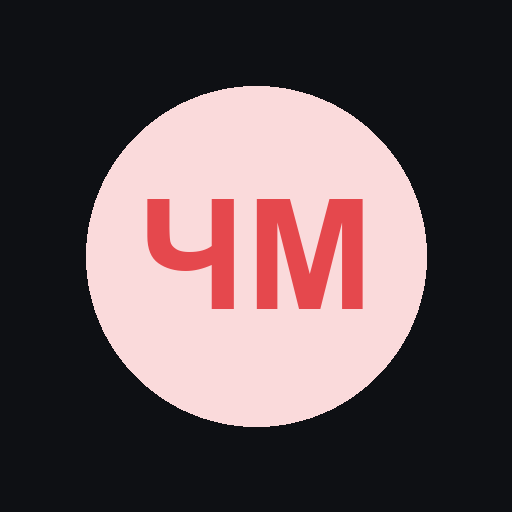
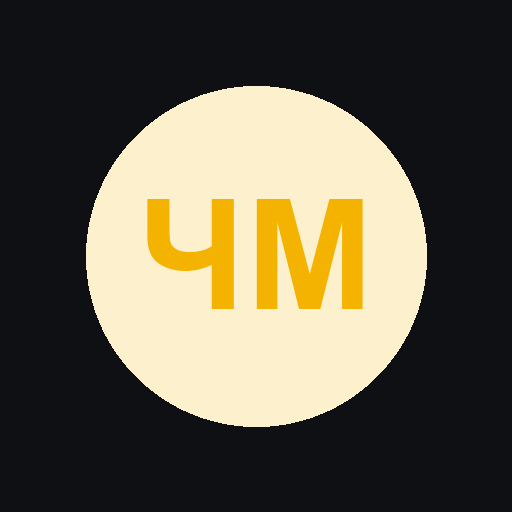
Честный мастер: цвета и значок с логотипа

Changed region(s): [[0.5, 0.375, 0.7188, 0.625], [0.2812, 0.375, 0.4688, 0.625]]

diff --git a/chestny-master/index.html b/chestny-master/index.html
@@ -25,7 +25,7 @@
 :root{
   color-scheme:dark;
   --bg:#0E1014; --bg2:#15181E; --card:#1A1E25; --line:#262B34; --text:#F2F4F7; --muted:#9AA3B2; --dim:#6B7380;
-  --accent:#E5484D; --accent-ink:#fff; --ok:#3DD68C; --warn:#F5B84B; --danger:#FF6B6B;
+  --accent:#F5B301; --accent-ink:#17191E; --ok:#3DD68C; --warn:#F5B84B; --danger:#FF6B6B;
   --r:16px; --safe-b:env(safe-area-inset-bottom,0px);
 }
 *{box-sizing:border-box;-webkit-tap-highlight-color:transparent}
@@ -230,6 +230,12 @@ body{background:
 .hero::after{background:linear-gradient(180deg,rgba(14,16,20,.28) 0%,rgba(14,16,20,0) 28%,rgba(14,16,20,.5) 58%,rgba(14,16,20,.97) 100%)}
 .kind{display:inline-block;padding:4px 10px;border-radius:999px;background:color-mix(in srgb,var(--accent) 30%,rgba(10,12,16,.55));color:#fff;letter-spacing:.06em;font-size:11px;backdrop-filter:blur(8px);-webkit-backdrop-filter:blur(8px)}
 h1,.meta{text-shadow:0 2px 14px rgba(0,0,0,.55)}
+/* логотип мойки вместо названия, если он есть */
+.title-row{display:flex;align-items:center;gap:12px;margin:6px 0 4px}
+.title-row h1{margin:0}
+.badge-logo{flex:0 0 auto;width:58px;height:58px;border-radius:50%;object-fit:cover;background:#fff;border:2px solid rgba(255,255,255,.9);box-shadow:0 6px 18px rgba(0,0,0,.5)}
+.logo-h{margin:8px 0 8px}
+.logo-h img{display:block;height:58px;max-width:86%;object-fit:contain;object-position:left center;filter:drop-shadow(0 2px 14px rgba(0,0,0,.75))}
 /* карточки: мягкий блик сверху и тень */
 .svc,.info-card,.summary,.install,.qa,.day,.time{background:linear-gradient(180deg,rgba(255,255,255,.045),rgba(255,255,255,0) 60%),var(--card);border-color:rgba(255,255,255,.075)}
 .svc,.info-card,.install{border-radius:18px;box-shadow:0 10px 28px -20px rgba(0,0,0,.9),inset 0 1px 0 rgba(255,255,255,.04)}
@@ -262,7 +268,7 @@ h1,.meta{text-shadow:0 2px 14px rgba(0,0,0,.55)}
 // поэтому страница записи и кабинет владельца видят одни и те же записи. Логика повторяет app.py:
 // если меняется сервер — меняем и здесь (проверяет scratchpad/demo_e2e.mjs).
 (() => {
-const SLUG = "chestny-master", CFG0 = {"slug": "chestny-master", "name": "Честный мастер", "kind": "Автосервис и шиномонтаж", "address": "Санкт-Петербург, Индустриальный пр., 66Б", "district": "Красногвардейский район", "mapsUrl": "https://yandex.ru/maps/org/chestny_master/178660768601/", "phones": [{"value": "+79117250011", "label": "Запись"}, {"value": "+79117250033", "label": "Доп. номер"}], "telegram": "https://t.me/sto_chestniy_master", "vk": "https://vk.ru/avtoservis_chest_m", "rating": 5.0, "reviews": 470, "hours": {"mon": ["09:00", "21:00"], "tue": ["09:00", "21:00"], "wed": ["09:00", "21:00"], "thu": ["09:00", "21:00"], "fri": ["09:00", "21:00"], "sat": ["09:00", "21:00"], "sun": ["09:00", "21:00"]}, "boxes": 2, "accent": "#E5484D", "photos": ["https://avatars.mds.yandex.net/get-altay/14456919/2a0000019263bd9940998c10f1b7725d3cc5/XXL", "https://avatars.mds.yandex.net/get-altay/17649278/2a0000019ab7b69eb0d34fefc5ea6af1ead5/XXL", "https://avatars.mds.yandex.net/get-altay/13212679/2a000001927a9d3349faff8be5f9badd8b37/XXL", "https://avatars.mds.yandex.net/get-altay/16874425/2a0000019e45ed567a3d7394d57dfe56681b/XXL", "https://avatars.mds.yandex.net/get-altay/14800460/2a00000195aeda79b68a7ade0139f4e38ff3/XXL", "https://avatars.mds.yandex.net/get-altay/13609869/2a000001926cc470041488172a2319a34969/XXL", "https://avatars.mds.yandex.net/get-altay/19532714/2a0000019e45ed56573eb4c58e510e4e3055/XXL", "https://avatars.mds.yandex.net/get-altay/13474366/2a000001926d3bba7ca4e32e0e5d89c77782/XXL"], "pricesSource": "Яндекс Карты, прайс организации", "categories": [{"name": "Ремонт и ТО", "services": [{"id": "0-0", "name": "Осмотр автомобиля перед покупкой", "price": 2500, "from": false, "desc": "Договоритесь с продавцом об осмотре машины на нашем сервисе. Кому нечего скрывать, скорее всего согласится…", "dur": 60, "hidden": false, "call": false}, {"id": "0-1", "name": "Мойка радиаторов", "price": 6500, "from": false, "desc": "Промойте радиаторы, помогите системе охлаждения автомобиля! Защитит машину от перегрева и улучшит работу…", "dur": 180, "hidden": false, "call": false}, {"id": "0-2", "name": "Аппаратная замена масла в АКПП и вариаторе", "price": 5000, "from": false, "desc": "Полная замена масла во всей системе АКПП аппаратом. Методом замещения старого масла новым. Требуется 10-12 л…", "dur": 90, "hidden": false, "call": false}, {"id": "0-3", "name": "Заправка автокондиционеров", "price": 3500, "from": false, "desc": "Заправка автокондиционеров на современном итальянском оборудовании – 3500 руб. Прошедшие обучение мастера…", "dur": 60, "hidden": false, "call": false}, {"id": "0-4", "name": "Автоэлектрик-диагност: сложные случаи", "price": 5000, "from": false, "desc": "Автоэлектрик-электронщик-диагност в автосервисе \"Честный мастер\"., Работает со сложными задачами, где базовый…", "dur": 60, "hidden": false, "call": false}, {"id": "0-5", "name": "Автоэлектрик: диагностика и ремонт", "price": 1000, "from": false, "desc": "Толковый автоэлектрик в автосервисе \"Честный мастер\". Не Никола Тесла, но отличный специалист с опытом работы…", "dur": 60, "hidden": false, "call": false}, {"id": "0-6", "name": "Установка защитной сетки на бампер", "price": 3500, "from": false, "desc": "Сетка устанавливается на бампер. Защищает радиатор от прилёта камней и повреждения ячеек. Актуально перед…", "dur": 30, "hidden": false, "call": false}, {"id": "0-7", "name": "Диагностика подвески, света и жидкостей", "price": 500, "from": false, "desc": "Поднимем машину на подъёмнике, заглянем под капот, послушаем двигатель, проверим жидкости, работу освещения…", "dur": 60, "hidden": false, "call": false}, {"id": "0-8", "name": "Замена ремня и цепи ГРМ", "price": 8000, "from": false, "desc": "Профессионально меняем цепь или ремень ГРМ на иномарках и отечественных авто., Также выполняем:, – замену…", "dur": "days", "hidden": false, "call": false}, {"id": "0-9", "name": "Ремонт АКПП и вариатора (CVT)", "price": 15000, "from": false, "desc": "Ремонтируем автоматические коробки передач (АКПП):, – классический 4,5,6 ступенчатый автомат, – вариатор…", "dur": "days", "hidden": false, "call": false}, {"id": "0-10", "name": "Замена масла в АКПП со снятием поддона", "price": 3500, "from": false, "desc": "Замена масла АКПП со снятием поддона, Старое масло сливается путём снятия поддона АКПП. Сам поддон тщательно…", "dur": 90, "hidden": false, "call": false}]}, {"name": "Шиномонтаж", "services": [{"id": "1-0", "name": "Развал-схождение", "price": 2500, "from": false, "desc": "Качественная регулировка углов схождения колёс или развал-схождения на новом 3D стенде. Выполняют опытные…", "dur": 60, "hidden": false, "call": false}, {"id": "1-1", "name": "Сезонная переобувка и балансировка", "price": 2500, "from": true, "desc": "Шиномонтаж от 2000 руб., Станки Sivik 2024 года выпуска: полуавтоматический балансировочный станок и…", "dur": 60, "hidden": false, "call": false}]}, {"name": "Кузовной ремонт", "services": [{"id": "2-0", "name": "Антикор обработка днища и арок", "price": 45000, "from": false, "desc": "Антикор обработка днища и арок автомобиля. Продлит жизнь кузову + создаст дополнительный эффект шумоизоляции…", "dur": "days", "hidden": false, "call": false}, {"id": "2-1", "name": "Кузовной ремонт и покраска", "price": 15000, "from": false, "desc": "Недорогой, но качественный кузовной ремонт, восстановление после ДТП:, – рихтовка, выправление вмятин…", "dur": "days", "hidden": false, "call": false}]}], "confirm": false, "daysOff": []}, VER = "5282aa95";
+const SLUG = "chestny-master", CFG0 = {"slug": "chestny-master", "name": "Честный мастер", "kind": "Автосервис и шиномонтаж", "address": "Санкт-Петербург, Индустриальный пр., 66Б", "district": "Красногвардейский район", "mapsUrl": "https://yandex.ru/maps/org/chestny_master/178660768601/", "phones": [{"value": "+79117250011", "label": "Запись"}, {"value": "+79117250033", "label": "Доп. номер"}], "telegram": "https://t.me/sto_chestniy_master", "vk": "https://vk.ru/avtoservis_chest_m", "rating": 5.0, "reviews": 470, "hours": {"mon": ["09:00", "21:00"], "tue": ["09:00", "21:00"], "wed": ["09:00", "21:00"], "thu": ["09:00", "21:00"], "fri": ["09:00", "21:00"], "sat": ["09:00", "21:00"], "sun": ["09:00", "21:00"]}, "boxes": 2, "accent": "#F5B301", "photos": ["https://avatars.mds.yandex.net/get-altay/14456919/2a0000019263bd9940998c10f1b7725d3cc5/XXL", "https://avatars.mds.yandex.net/get-altay/17649278/2a0000019ab7b69eb0d34fefc5ea6af1ead5/XXL", "https://avatars.mds.yandex.net/get-altay/13212679/2a000001927a9d3349faff8be5f9badd8b37/XXL", "https://avatars.mds.yandex.net/get-altay/16874425/2a0000019e45ed567a3d7394d57dfe56681b/XXL", "https://avatars.mds.yandex.net/get-altay/14800460/2a00000195aeda79b68a7ade0139f4e38ff3/XXL", "https://avatars.mds.yandex.net/get-altay/13609869/2a000001926cc470041488172a2319a34969/XXL", "https://avatars.mds.yandex.net/get-altay/19532714/2a0000019e45ed56573eb4c58e510e4e3055/XXL", "https://avatars.mds.yandex.net/get-altay/13474366/2a000001926d3bba7ca4e32e0e5d89c77782/XXL"], "pricesSource": "Яндекс Карты, прайс организации", "categories": [{"name": "Ремонт и ТО", "services": [{"id": "0-0", "name": "Осмотр автомобиля перед покупкой", "price": 2500, "from": false, "desc": "Договоритесь с продавцом об осмотре машины на нашем сервисе. Кому нечего скрывать, скорее всего согласится…", "dur": 60, "hidden": false, "call": false}, {"id": "0-1", "name": "Мойка радиаторов", "price": 6500, "from": false, "desc": "Промойте радиаторы, помогите системе охлаждения автомобиля! Защитит машину от перегрева и улучшит работу…", "dur": 180, "hidden": false, "call": false}, {"id": "0-2", "name": "Аппаратная замена масла в АКПП и вариаторе", "price": 5000, "from": false, "desc": "Полная замена масла во всей системе АКПП аппаратом. Методом замещения старого масла новым. Требуется 10-12 л…", "dur": 90, "hidden": false, "call": false}, {"id": "0-3", "name": "Заправка автокондиционеров", "price": 3500, "from": false, "desc": "Заправка автокондиционеров на современном итальянском оборудовании – 3500 руб. Прошедшие обучение мастера…", "dur": 60, "hidden": false, "call": false}, {"id": "0-4", "name": "Автоэлектрик-диагност: сложные случаи", "price": 5000, "from": false, "desc": "Автоэлектрик-электронщик-диагност в автосервисе \"Честный мастер\"., Работает со сложными задачами, где базовый…", "dur": 60, "hidden": false, "call": false}, {"id": "0-5", "name": "Автоэлектрик: диагностика и ремонт", "price": 1000, "from": false, "desc": "Толковый автоэлектрик в автосервисе \"Честный мастер\". Не Никола Тесла, но отличный специалист с опытом работы…", "dur": 60, "hidden": false, "call": false}, {"id": "0-6", "name": "Установка защитной сетки на бампер", "price": 3500, "from": false, "desc": "Сетка устанавливается на бампер. Защищает радиатор от прилёта камней и повреждения ячеек. Актуально перед…", "dur": 30, "hidden": false, "call": false}, {"id": "0-7", "name": "Диагностика подвески, света и жидкостей", "price": 500, "from": false, "desc": "Поднимем машину на подъёмнике, заглянем под капот, послушаем двигатель, проверим жидкости, работу освещения…", "dur": 60, "hidden": false, "call": false}, {"id": "0-8", "name": "Замена ремня и цепи ГРМ", "price": 8000, "from": false, "desc": "Профессионально меняем цепь или ремень ГРМ на иномарках и отечественных авто., Также выполняем:, – замену…", "dur": "days", "hidden": false, "call": false}, {"id": "0-9", "name": "Ремонт АКПП и вариатора (CVT)", "price": 15000, "from": false, "desc": "Ремонтируем автоматические коробки передач (АКПП):, – классический 4,5,6 ступенчатый автомат, – вариатор…", "dur": "days", "hidden": false, "call": false}, {"id": "0-10", "name": "Замена масла в АКПП со снятием поддона", "price": 3500, "from": false, "desc": "Замена масла АКПП со снятием поддона, Старое масло сливается путём снятия поддона АКПП. Сам поддон тщательно…", "dur": 90, "hidden": false, "call": false}]}, {"name": "Шиномонтаж", "services": [{"id": "1-0", "name": "Развал-схождение", "price": 2500, "from": false, "desc": "Качественная регулировка углов схождения колёс или развал-схождения на новом 3D стенде. Выполняют опытные…", "dur": 60, "hidden": false, "call": false}, {"id": "1-1", "name": "Сезонная переобувка и балансировка", "price": 2500, "from": true, "desc": "Шиномонтаж от 2000 руб., Станки Sivik 2024 года выпуска: полуавтоматический балансировочный станок и…", "dur": 60, "hidden": false, "call": false}]}, {"name": "Кузовной ремонт", "services": [{"id": "2-0", "name": "Антикор обработка днища и арок", "price": 45000, "from": false, "desc": "Антикор обработка днища и арок автомобиля. Продлит жизнь кузову + создаст дополнительный эффект шумоизоляции…", "dur": "days", "hidden": false, "call": false}, {"id": "2-1", "name": "Кузовной ремонт и покраска", "price": 15000, "from": false, "desc": "Недорогой, но качественный кузовной ремонт, восстановление после ДТП:, – рихтовка, выправление вмятин…", "dur": "days", "hidden": false, "call": false}]}], "accentInk": "#17191E", "logoBadge": "badge.jpg", "confirm": false, "daysOff": []}, VER = "4b2d2b32";
 if (!CFG0) return;
 const STEP = 30, LEAD = 30, HORIZON = 30, AVAIL = 14, MAX_ACTIVE = 3;
 const DOWS = ['sun', 'mon', 'tue', 'wed', 'thu', 'fri', 'sat'];
@@ -587,7 +593,7 @@ window.__zapisDemoReset = () => { try { localStorage.removeItem(SKEY); } catch (
 })();
 </script>
 <script>
-const DATA = {"slug": "chestny-master", "name": "Честный мастер", "kind": "Автосервис и шиномонтаж", "address": "Санкт-Петербург, Индустриальный пр., 66Б", "district": "Красногвардейский район", "mapsUrl": "https://yandex.ru/maps/org/chestny_master/178660768601/", "phones": [{"value": "+79117250011", "label": "Запись"}, {"value": "+79117250033", "label": "Доп. номер"}], "telegram": "https://t.me/sto_chestniy_master", "vk": "https://vk.ru/avtoservis_chest_m", "rating": 5.0, "reviews": 470, "hours": {"mon": ["09:00", "21:00"], "tue": ["09:00", "21:00"], "wed": ["09:00", "21:00"], "thu": ["09:00", "21:00"], "fri": ["09:00", "21:00"], "sat": ["09:00", "21:00"], "sun": ["09:00", "21:00"]}, "boxes": 2, "accent": "#E5484D", "photos": ["https://avatars.mds.yandex.net/get-altay/14456919/2a0000019263bd9940998c10f1b7725d3cc5/XXL", "https://avatars.mds.yandex.net/get-altay/17649278/2a0000019ab7b69eb0d34fefc5ea6af1ead5/XXL", "https://avatars.mds.yandex.net/get-altay/13212679/2a000001927a9d3349faff8be5f9badd8b37/XXL", "https://avatars.mds.yandex.net/get-altay/16874425/2a0000019e45ed567a3d7394d57dfe56681b/XXL", "https://avatars.mds.yandex.net/get-altay/14800460/2a00000195aeda79b68a7ade0139f4e38ff3/XXL", "https://avatars.mds.yandex.net/get-altay/13609869/2a000001926cc470041488172a2319a34969/XXL", "https://avatars.mds.yandex.net/get-altay/19532714/2a0000019e45ed56573eb4c58e510e4e3055/XXL", "https://avatars.mds.yandex.net/get-altay/13474366/2a000001926d3bba7ca4e32e0e5d89c77782/XXL"], "pricesSource": "Яндекс Карты, прайс организации", "categories": [{"name": "Ремонт и ТО", "services": [{"id": "0-0", "name": "Осмотр автомобиля перед покупкой", "price": 2500, "from": false, "desc": "Договоритесь с продавцом об осмотре машины на нашем сервисе. Кому нечего скрывать, скорее всего согласится…", "dur": 60, "hidden": false, "call": false}, {"id": "0-1", "name": "Мойка радиаторов", "price": 6500, "from": false, "desc": "Промойте радиаторы, помогите системе охлаждения автомобиля! Защитит машину от перегрева и улучшит работу…", "dur": 180, "hidden": false, "call": false}, {"id": "0-2", "name": "Аппаратная замена масла в АКПП и вариаторе", "price": 5000, "from": false, "desc": "Полная замена масла во всей системе АКПП аппаратом. Методом замещения старого масла новым. Требуется 10-12 л…", "dur": 90, "hidden": false, "call": false}, {"id": "0-3", "name": "Заправка автокондиционеров", "price": 3500, "from": false, "desc": "Заправка автокондиционеров на современном итальянском оборудовании – 3500 руб. Прошедшие обучение мастера…", "dur": 60, "hidden": false, "call": false}, {"id": "0-4", "name": "Автоэлектрик-диагност: сложные случаи", "price": 5000, "from": false, "desc": "Автоэлектрик-электронщик-диагност в автосервисе \"Честный мастер\"., Работает со сложными задачами, где базовый…", "dur": 60, "hidden": false, "call": false}, {"id": "0-5", "name": "Автоэлектрик: диагностика и ремонт", "price": 1000, "from": false, "desc": "Толковый автоэлектрик в автосервисе \"Честный мастер\". Не Никола Тесла, но отличный специалист с опытом работы…", "dur": 60, "hidden": false, "call": false}, {"id": "0-6", "name": "Установка защитной сетки на бампер", "price": 3500, "from": false, "desc": "Сетка устанавливается на бампер. Защищает радиатор от прилёта камней и повреждения ячеек. Актуально перед…", "dur": 30, "hidden": false, "call": false}, {"id": "0-7", "name": "Диагностика подвески, света и жидкостей", "price": 500, "from": false, "desc": "Поднимем машину на подъёмнике, заглянем под капот, послушаем двигатель, проверим жидкости, работу освещения…", "dur": 60, "hidden": false, "call": false}, {"id": "0-8", "name": "Замена ремня и цепи ГРМ", "price": 8000, "from": false, "desc": "Профессионально меняем цепь или ремень ГРМ на иномарках и отечественных авто., Также выполняем:, – замену…", "dur": "days", "hidden": false, "call": false}, {"id": "0-9", "name": "Ремонт АКПП и вариатора (CVT)", "price": 15000, "from": false, "desc": "Ремонтируем автоматические коробки передач (АКПП):, – классический 4,5,6 ступенчатый автомат, – вариатор…", "dur": "days", "hidden": false, "call": false}, {"id": "0-10", "name": "Замена масла в АКПП со снятием поддона", "price": 3500, "from": false, "desc": "Замена масла АКПП со снятием поддона, Старое масло сливается путём снятия поддона АКПП. Сам поддон тщательно…", "dur": 90, "hidden": false, "call": false}]}, {"name": "Шиномонтаж", "services": [{"id": "1-0", "name": "Развал-схождение", "price": 2500, "from": false, "desc": "Качественная регулировка углов схождения колёс или развал-схождения на новом 3D стенде. Выполняют опытные…", "dur": 60, "hidden": false, "call": false}, {"id": "1-1", "name": "Сезонная переобувка и балансировка", "price": 2500, "from": true, "desc": "Шиномонтаж от 2000 руб., Станки Sivik 2024 года выпуска: полуавтоматический балансировочный станок и…", "dur": 60, "hidden": false, "call": false}]}, {"name": "Кузовной ремонт", "services": [{"id": "2-0", "name": "Антикор обработка днища и арок", "price": 45000, "from": false, "desc": "Антикор обработка днища и арок автомобиля. Продлит жизнь кузову + создаст дополнительный эффект шумоизоляции…", "dur": "days", "hidden": false, "call": false}, {"id": "2-1", "name": "Кузовной ремонт и покраска", "price": 15000, "from": false, "desc": "Недорогой, но качественный кузовной ремонт, восстановление после ДТП:, – рихтовка, выправление вмятин…", "dur": "days", "hidden": false, "call": false}]}], "confirm": false, "daysOff": []};
+const DATA = {"slug": "chestny-master", "name": "Честный мастер", "kind": "Автосервис и шиномонтаж", "address": "Санкт-Петербург, Индустриальный пр., 66Б", "district": "Красногвардейский район", "mapsUrl": "https://yandex.ru/maps/org/chestny_master/178660768601/", "phones": [{"value": "+79117250011", "label": "Запись"}, {"value": "+79117250033", "label": "Доп. номер"}], "telegram": "https://t.me/sto_chestniy_master", "vk": "https://vk.ru/avtoservis_chest_m", "rating": 5.0, "reviews": 470, "hours": {"mon": ["09:00", "21:00"], "tue": ["09:00", "21:00"], "wed": ["09:00", "21:00"], "thu": ["09:00", "21:00"], "fri": ["09:00", "21:00"], "sat": ["09:00", "21:00"], "sun": ["09:00", "21:00"]}, "boxes": 2, "accent": "#F5B301", "photos": ["https://avatars.mds.yandex.net/get-altay/14456919/2a0000019263bd9940998c10f1b7725d3cc5/XXL", "https://avatars.mds.yandex.net/get-altay/17649278/2a0000019ab7b69eb0d34fefc5ea6af1ead5/XXL", "https://avatars.mds.yandex.net/get-altay/13212679/2a000001927a9d3349faff8be5f9badd8b37/XXL", "https://avatars.mds.yandex.net/get-altay/16874425/2a0000019e45ed567a3d7394d57dfe56681b/XXL", "https://avatars.mds.yandex.net/get-altay/14800460/2a00000195aeda79b68a7ade0139f4e38ff3/XXL", "https://avatars.mds.yandex.net/get-altay/13609869/2a000001926cc470041488172a2319a34969/XXL", "https://avatars.mds.yandex.net/get-altay/19532714/2a0000019e45ed56573eb4c58e510e4e3055/XXL", "https://avatars.mds.yandex.net/get-altay/13474366/2a000001926d3bba7ca4e32e0e5d89c77782/XXL"], "pricesSource": "Яндекс Карты, прайс организации", "categories": [{"name": "Ремонт и ТО", "services": [{"id": "0-0", "name": "Осмотр автомобиля перед покупкой", "price": 2500, "from": false, "desc": "Договоритесь с продавцом об осмотре машины на нашем сервисе. Кому нечего скрывать, скорее всего согласится…", "dur": 60, "hidden": false, "call": false}, {"id": "0-1", "name": "Мойка радиаторов", "price": 6500, "from": false, "desc": "Промойте радиаторы, помогите системе охлаждения автомобиля! Защитит машину от перегрева и улучшит работу…", "dur": 180, "hidden": false, "call": false}, {"id": "0-2", "name": "Аппаратная замена масла в АКПП и вариаторе", "price": 5000, "from": false, "desc": "Полная замена масла во всей системе АКПП аппаратом. Методом замещения старого масла новым. Требуется 10-12 л…", "dur": 90, "hidden": false, "call": false}, {"id": "0-3", "name": "Заправка автокондиционеров", "price": 3500, "from": false, "desc": "Заправка автокондиционеров на современном итальянском оборудовании – 3500 руб. Прошедшие обучение мастера…", "dur": 60, "hidden": false, "call": false}, {"id": "0-4", "name": "Автоэлектрик-диагност: сложные случаи", "price": 5000, "from": false, "desc": "Автоэлектрик-электронщик-диагност в автосервисе \"Честный мастер\"., Работает со сложными задачами, где базовый…", "dur": 60, "hidden": false, "call": false}, {"id": "0-5", "name": "Автоэлектрик: диагностика и ремонт", "price": 1000, "from": false, "desc": "Толковый автоэлектрик в автосервисе \"Честный мастер\". Не Никола Тесла, но отличный специалист с опытом работы…", "dur": 60, "hidden": false, "call": false}, {"id": "0-6", "name": "Установка защитной сетки на бампер", "price": 3500, "from": false, "desc": "Сетка устанавливается на бампер. Защищает радиатор от прилёта камней и повреждения ячеек. Актуально перед…", "dur": 30, "hidden": false, "call": false}, {"id": "0-7", "name": "Диагностика подвески, света и жидкостей", "price": 500, "from": false, "desc": "Поднимем машину на подъёмнике, заглянем под капот, послушаем двигатель, проверим жидкости, работу освещения…", "dur": 60, "hidden": false, "call": false}, {"id": "0-8", "name": "Замена ремня и цепи ГРМ", "price": 8000, "from": false, "desc": "Профессионально меняем цепь или ремень ГРМ на иномарках и отечественных авто., Также выполняем:, – замену…", "dur": "days", "hidden": false, "call": false}, {"id": "0-9", "name": "Ремонт АКПП и вариатора (CVT)", "price": 15000, "from": false, "desc": "Ремонтируем автоматические коробки передач (АКПП):, – классический 4,5,6 ступенчатый автомат, – вариатор…", "dur": "days", "hidden": false, "call": false}, {"id": "0-10", "name": "Замена масла в АКПП со снятием поддона", "price": 3500, "from": false, "desc": "Замена масла АКПП со снятием поддона, Старое масло сливается путём снятия поддона АКПП. Сам поддон тщательно…", "dur": 90, "hidden": false, "call": false}]}, {"name": "Шиномонтаж", "services": [{"id": "1-0", "name": "Развал-схождение", "price": 2500, "from": false, "desc": "Качественная регулировка углов схождения колёс или развал-схождения на новом 3D стенде. Выполняют опытные…", "dur": 60, "hidden": false, "call": false}, {"id": "1-1", "name": "Сезонная переобувка и балансировка", "price": 2500, "from": true, "desc": "Шиномонтаж от 2000 руб., Станки Sivik 2024 года выпуска: полуавтоматический балансировочный станок и…", "dur": 60, "hidden": false, "call": false}]}, {"name": "Кузовной ремонт", "services": [{"id": "2-0", "name": "Антикор обработка днища и арок", "price": 45000, "from": false, "desc": "Антикор обработка днища и арок автомобиля. Продлит жизнь кузову + создаст дополнительный эффект шумоизоляции…", "dur": "days", "hidden": false, "call": false}, {"id": "2-1", "name": "Кузовной ремонт и покраска", "price": 15000, "from": false, "desc": "Недорогой, но качественный кузовной ремонт, восстановление после ДТП:, – рихтовка, выправление вмятин…", "dur": "days", "hidden": false, "call": false}]}], "accentInk": "#17191E", "logoBadge": "badge.jpg", "confirm": false, "daysOff": []};
 </script>
 <script>
 (() => {
@@ -712,7 +718,9 @@ function renderMain(){
     ${(D.photos||[]).length>1?`<button class="hero-nav l" id="prevPh" aria-label="Предыдущее фото">${I.back}</button><button class="hero-nav r" id="nextPh" aria-label="Следующее фото" style="transform:translateY(-50%) scaleX(-1)">${I.back}</button>`:''}
     <div class="hero-info">
       <div class="kind">${esc(D.kind)}</div>
-      <h1>${esc(D.name)}</h1>
+      ${D.logo ? `<h1 class="logo-h"><img src="${esc(D.logo)}" alt="${esc(D.name)}"></h1>`
+        : D.logoBadge ? `<div class="title-row"><img class="badge-logo" src="${esc(D.logoBadge)}" alt=""><h1>${esc(D.name)}</h1></div>`
+        : `<h1>${esc(D.name)}</h1>`}
       <div class="meta">
         ${D.rating?`<span><span class="star">★</span> ${Number(D.rating).toFixed(1).replace('.',',')} · ${D.reviews} ${plural(D.reviews,'оценка','оценки','оценок')}</span>`:''}
         <span>${esc(D.district||'')}</span>

diff --git a/chestny-master/owner/index.html b/chestny-master/owner/index.html
@@ -21,7 +21,7 @@
 @media (prefers-color-scheme: dark){:root{color-scheme:dark}}
 :root{color-scheme:dark;
   --bg:#0E1014; --bg2:#15181E; --card:#1A1E25; --line:#262B34; --text:#F2F4F7; --muted:#9AA3B2; --dim:#6B7380;
-  --accent:#E5484D; --accent-ink:#fff; --ok:#3DD68C; --warn:#F5B84B; --danger:#FF6B6B;
+  --accent:#F5B301; --accent-ink:#17191E; --ok:#3DD68C; --warn:#F5B84B; --danger:#FF6B6B;
   --r:16px; --safe-b:env(safe-area-inset-bottom,0px); --safe-t:env(safe-area-inset-top,0px); --row:38px;
 }
 *{box-sizing:border-box;-webkit-tap-highlight-color:transparent}
@@ -221,7 +221,7 @@ a{color:inherit;text-decoration:none}
 // поэтому страница записи и кабинет владельца видят одни и те же записи. Логика повторяет app.py:
 // если меняется сервер — меняем и здесь (проверяет scratchpad/demo_e2e.mjs).
 (() => {
-const SLUG = "chestny-master", CFG0 = {"slug": "chestny-master", "name": "Честный мастер", "kind": "Автосервис и шиномонтаж", "address": "Санкт-Петербург, Индустриальный пр., 66Б", "district": "Красногвардейский район", "mapsUrl": "https://yandex.ru/maps/org/chestny_master/178660768601/", "phones": [{"value": "+79117250011", "label": "Запись"}, {"value": "+79117250033", "label": "Доп. номер"}], "telegram": "https://t.me/sto_chestniy_master", "vk": "https://vk.ru/avtoservis_chest_m", "rating": 5.0, "reviews": 470, "hours": {"mon": ["09:00", "21:00"], "tue": ["09:00", "21:00"], "wed": ["09:00", "21:00"], "thu": ["09:00", "21:00"], "fri": ["09:00", "21:00"], "sat": ["09:00", "21:00"], "sun": ["09:00", "21:00"]}, "boxes": 2, "accent": "#E5484D", "photos": ["https://avatars.mds.yandex.net/get-altay/14456919/2a0000019263bd9940998c10f1b7725d3cc5/XXL", "https://avatars.mds.yandex.net/get-altay/17649278/2a0000019ab7b69eb0d34fefc5ea6af1ead5/XXL", "https://avatars.mds.yandex.net/get-altay/13212679/2a000001927a9d3349faff8be5f9badd8b37/XXL", "https://avatars.mds.yandex.net/get-altay/16874425/2a0000019e45ed567a3d7394d57dfe56681b/XXL", "https://avatars.mds.yandex.net/get-altay/14800460/2a00000195aeda79b68a7ade0139f4e38ff3/XXL", "https://avatars.mds.yandex.net/get-altay/13609869/2a000001926cc470041488172a2319a34969/XXL", "https://avatars.mds.yandex.net/get-altay/19532714/2a0000019e45ed56573eb4c58e510e4e3055/XXL", "https://avatars.mds.yandex.net/get-altay/13474366/2a000001926d3bba7ca4e32e0e5d89c77782/XXL"], "pricesSource": "Яндекс Карты, прайс организации", "categories": [{"name": "Ремонт и ТО", "services": [{"id": "0-0", "name": "Осмотр автомобиля перед покупкой", "price": 2500, "from": false, "desc": "Договоритесь с продавцом об осмотре машины на нашем сервисе. Кому нечего скрывать, скорее всего согласится…", "dur": 60, "hidden": false, "call": false}, {"id": "0-1", "name": "Мойка радиаторов", "price": 6500, "from": false, "desc": "Промойте радиаторы, помогите системе охлаждения автомобиля! Защитит машину от перегрева и улучшит работу…", "dur": 180, "hidden": false, "call": false}, {"id": "0-2", "name": "Аппаратная замена масла в АКПП и вариаторе", "price": 5000, "from": false, "desc": "Полная замена масла во всей системе АКПП аппаратом. Методом замещения старого масла новым. Требуется 10-12 л…", "dur": 90, "hidden": false, "call": false}, {"id": "0-3", "name": "Заправка автокондиционеров", "price": 3500, "from": false, "desc": "Заправка автокондиционеров на современном итальянском оборудовании – 3500 руб. Прошедшие обучение мастера…", "dur": 60, "hidden": false, "call": false}, {"id": "0-4", "name": "Автоэлектрик-диагност: сложные случаи", "price": 5000, "from": false, "desc": "Автоэлектрик-электронщик-диагност в автосервисе \"Честный мастер\"., Работает со сложными задачами, где базовый…", "dur": 60, "hidden": false, "call": false}, {"id": "0-5", "name": "Автоэлектрик: диагностика и ремонт", "price": 1000, "from": false, "desc": "Толковый автоэлектрик в автосервисе \"Честный мастер\". Не Никола Тесла, но отличный специалист с опытом работы…", "dur": 60, "hidden": false, "call": false}, {"id": "0-6", "name": "Установка защитной сетки на бампер", "price": 3500, "from": false, "desc": "Сетка устанавливается на бампер. Защищает радиатор от прилёта камней и повреждения ячеек. Актуально перед…", "dur": 30, "hidden": false, "call": false}, {"id": "0-7", "name": "Диагностика подвески, света и жидкостей", "price": 500, "from": false, "desc": "Поднимем машину на подъёмнике, заглянем под капот, послушаем двигатель, проверим жидкости, работу освещения…", "dur": 60, "hidden": false, "call": false}, {"id": "0-8", "name": "Замена ремня и цепи ГРМ", "price": 8000, "from": false, "desc": "Профессионально меняем цепь или ремень ГРМ на иномарках и отечественных авто., Также выполняем:, – замену…", "dur": "days", "hidden": false, "call": false}, {"id": "0-9", "name": "Ремонт АКПП и вариатора (CVT)", "price": 15000, "from": false, "desc": "Ремонтируем автоматические коробки передач (АКПП):, – классический 4,5,6 ступенчатый автомат, – вариатор…", "dur": "days", "hidden": false, "call": false}, {"id": "0-10", "name": "Замена масла в АКПП со снятием поддона", "price": 3500, "from": false, "desc": "Замена масла АКПП со снятием поддона, Старое масло сливается путём снятия поддона АКПП. Сам поддон тщательно…", "dur": 90, "hidden": false, "call": false}]}, {"name": "Шиномонтаж", "services": [{"id": "1-0", "name": "Развал-схождение", "price": 2500, "from": false, "desc": "Качественная регулировка углов схождения колёс или развал-схождения на новом 3D стенде. Выполняют опытные…", "dur": 60, "hidden": false, "call": false}, {"id": "1-1", "name": "Сезонная переобувка и балансировка", "price": 2500, "from": true, "desc": "Шиномонтаж от 2000 руб., Станки Sivik 2024 года выпуска: полуавтоматический балансировочный станок и…", "dur": 60, "hidden": false, "call": false}]}, {"name": "Кузовной ремонт", "services": [{"id": "2-0", "name": "Антикор обработка днища и арок", "price": 45000, "from": false, "desc": "Антикор обработка днища и арок автомобиля. Продлит жизнь кузову + создаст дополнительный эффект шумоизоляции…", "dur": "days", "hidden": false, "call": false}, {"id": "2-1", "name": "Кузовной ремонт и покраска", "price": 15000, "from": false, "desc": "Недорогой, но качественный кузовной ремонт, восстановление после ДТП:, – рихтовка, выправление вмятин…", "dur": "days", "hidden": false, "call": false}]}], "confirm": false, "daysOff": []}, VER = "5282aa95";
+const SLUG = "chestny-master", CFG0 = {"slug": "chestny-master", "name": "Честный мастер", "kind": "Автосервис и шиномонтаж", "address": "Санкт-Петербург, Индустриальный пр., 66Б", "district": "Красногвардейский район", "mapsUrl": "https://yandex.ru/maps/org/chestny_master/178660768601/", "phones": [{"value": "+79117250011", "label": "Запись"}, {"value": "+79117250033", "label": "Доп. номер"}], "telegram": "https://t.me/sto_chestniy_master", "vk": "https://vk.ru/avtoservis_chest_m", "rating": 5.0, "reviews": 470, "hours": {"mon": ["09:00", "21:00"], "tue": ["09:00", "21:00"], "wed": ["09:00", "21:00"], "thu": ["09:00", "21:00"], "fri": ["09:00", "21:00"], "sat": ["09:00", "21:00"], "sun": ["09:00", "21:00"]}, "boxes": 2, "accent": "#F5B301", "photos": ["https://avatars.mds.yandex.net/get-altay/14456919/2a0000019263bd9940998c10f1b7725d3cc5/XXL", "https://avatars.mds.yandex.net/get-altay/17649278/2a0000019ab7b69eb0d34fefc5ea6af1ead5/XXL", "https://avatars.mds.yandex.net/get-altay/13212679/2a000001927a9d3349faff8be5f9badd8b37/XXL", "https://avatars.mds.yandex.net/get-altay/16874425/2a0000019e45ed567a3d7394d57dfe56681b/XXL", "https://avatars.mds.yandex.net/get-altay/14800460/2a00000195aeda79b68a7ade0139f4e38ff3/XXL", "https://avatars.mds.yandex.net/get-altay/13609869/2a000001926cc470041488172a2319a34969/XXL", "https://avatars.mds.yandex.net/get-altay/19532714/2a0000019e45ed56573eb4c58e510e4e3055/XXL", "https://avatars.mds.yandex.net/get-altay/13474366/2a000001926d3bba7ca4e32e0e5d89c77782/XXL"], "pricesSource": "Яндекс Карты, прайс организации", "categories": [{"name": "Ремонт и ТО", "services": [{"id": "0-0", "name": "Осмотр автомобиля перед покупкой", "price": 2500, "from": false, "desc": "Договоритесь с продавцом об осмотре машины на нашем сервисе. Кому нечего скрывать, скорее всего согласится…", "dur": 60, "hidden": false, "call": false}, {"id": "0-1", "name": "Мойка радиаторов", "price": 6500, "from": false, "desc": "Промойте радиаторы, помогите системе охлаждения автомобиля! Защитит машину от перегрева и улучшит работу…", "dur": 180, "hidden": false, "call": false}, {"id": "0-2", "name": "Аппаратная замена масла в АКПП и вариаторе", "price": 5000, "from": false, "desc": "Полная замена масла во всей системе АКПП аппаратом. Методом замещения старого масла новым. Требуется 10-12 л…", "dur": 90, "hidden": false, "call": false}, {"id": "0-3", "name": "Заправка автокондиционеров", "price": 3500, "from": false, "desc": "Заправка автокондиционеров на современном итальянском оборудовании – 3500 руб. Прошедшие обучение мастера…", "dur": 60, "hidden": false, "call": false}, {"id": "0-4", "name": "Автоэлектрик-диагност: сложные случаи", "price": 5000, "from": false, "desc": "Автоэлектрик-электронщик-диагност в автосервисе \"Честный мастер\"., Работает со сложными задачами, где базовый…", "dur": 60, "hidden": false, "call": false}, {"id": "0-5", "name": "Автоэлектрик: диагностика и ремонт", "price": 1000, "from": false, "desc": "Толковый автоэлектрик в автосервисе \"Честный мастер\". Не Никола Тесла, но отличный специалист с опытом работы…", "dur": 60, "hidden": false, "call": false}, {"id": "0-6", "name": "Установка защитной сетки на бампер", "price": 3500, "from": false, "desc": "Сетка устанавливается на бампер. Защищает радиатор от прилёта камней и повреждения ячеек. Актуально перед…", "dur": 30, "hidden": false, "call": false}, {"id": "0-7", "name": "Диагностика подвески, света и жидкостей", "price": 500, "from": false, "desc": "Поднимем машину на подъёмнике, заглянем под капот, послушаем двигатель, проверим жидкости, работу освещения…", "dur": 60, "hidden": false, "call": false}, {"id": "0-8", "name": "Замена ремня и цепи ГРМ", "price": 8000, "from": false, "desc": "Профессионально меняем цепь или ремень ГРМ на иномарках и отечественных авто., Также выполняем:, – замену…", "dur": "days", "hidden": false, "call": false}, {"id": "0-9", "name": "Ремонт АКПП и вариатора (CVT)", "price": 15000, "from": false, "desc": "Ремонтируем автоматические коробки передач (АКПП):, – классический 4,5,6 ступенчатый автомат, – вариатор…", "dur": "days", "hidden": false, "call": false}, {"id": "0-10", "name": "Замена масла в АКПП со снятием поддона", "price": 3500, "from": false, "desc": "Замена масла АКПП со снятием поддона, Старое масло сливается путём снятия поддона АКПП. Сам поддон тщательно…", "dur": 90, "hidden": false, "call": false}]}, {"name": "Шиномонтаж", "services": [{"id": "1-0", "name": "Развал-схождение", "price": 2500, "from": false, "desc": "Качественная регулировка углов схождения колёс или развал-схождения на новом 3D стенде. Выполняют опытные…", "dur": 60, "hidden": false, "call": false}, {"id": "1-1", "name": "Сезонная переобувка и балансировка", "price": 2500, "from": true, "desc": "Шиномонтаж от 2000 руб., Станки Sivik 2024 года выпуска: полуавтоматический балансировочный станок и…", "dur": 60, "hidden": false, "call": false}]}, {"name": "Кузовной ремонт", "services": [{"id": "2-0", "name": "Антикор обработка днища и арок", "price": 45000, "from": false, "desc": "Антикор обработка днища и арок автомобиля. Продлит жизнь кузову + создаст дополнительный эффект шумоизоляции…", "dur": "days", "hidden": false, "call": false}, {"id": "2-1", "name": "Кузовной ремонт и покраска", "price": 15000, "from": false, "desc": "Недорогой, но качественный кузовной ремонт, восстановление после ДТП:, – рихтовка, выправление вмятин…", "dur": "days", "hidden": false, "call": false}]}], "accentInk": "#17191E", "logoBadge": "badge.jpg", "confirm": false, "daysOff": []}, VER = "4b2d2b32";
 if (!CFG0) return;
 const STEP = 30, LEAD = 30, HORIZON = 30, AVAIL = 14, MAX_ACTIVE = 3;
 const DOWS = ['sun', 'mon', 'tue', 'wed', 'thu', 'fri', 'sat'];
@@ -546,7 +546,7 @@ window.__zapisDemoReset = () => { try { localStorage.removeItem(SKEY); } catch (
 })();
 </script>
 <script>
-const DATA = {"slug": "chestny-master", "name": "Честный мастер", "accent": "#E5484D"};
+const DATA = {"slug": "chestny-master", "name": "Честный мастер", "accent": "#F5B301", "accentInk": "#17191E"};
 </script>
 <script>
 (() => {
